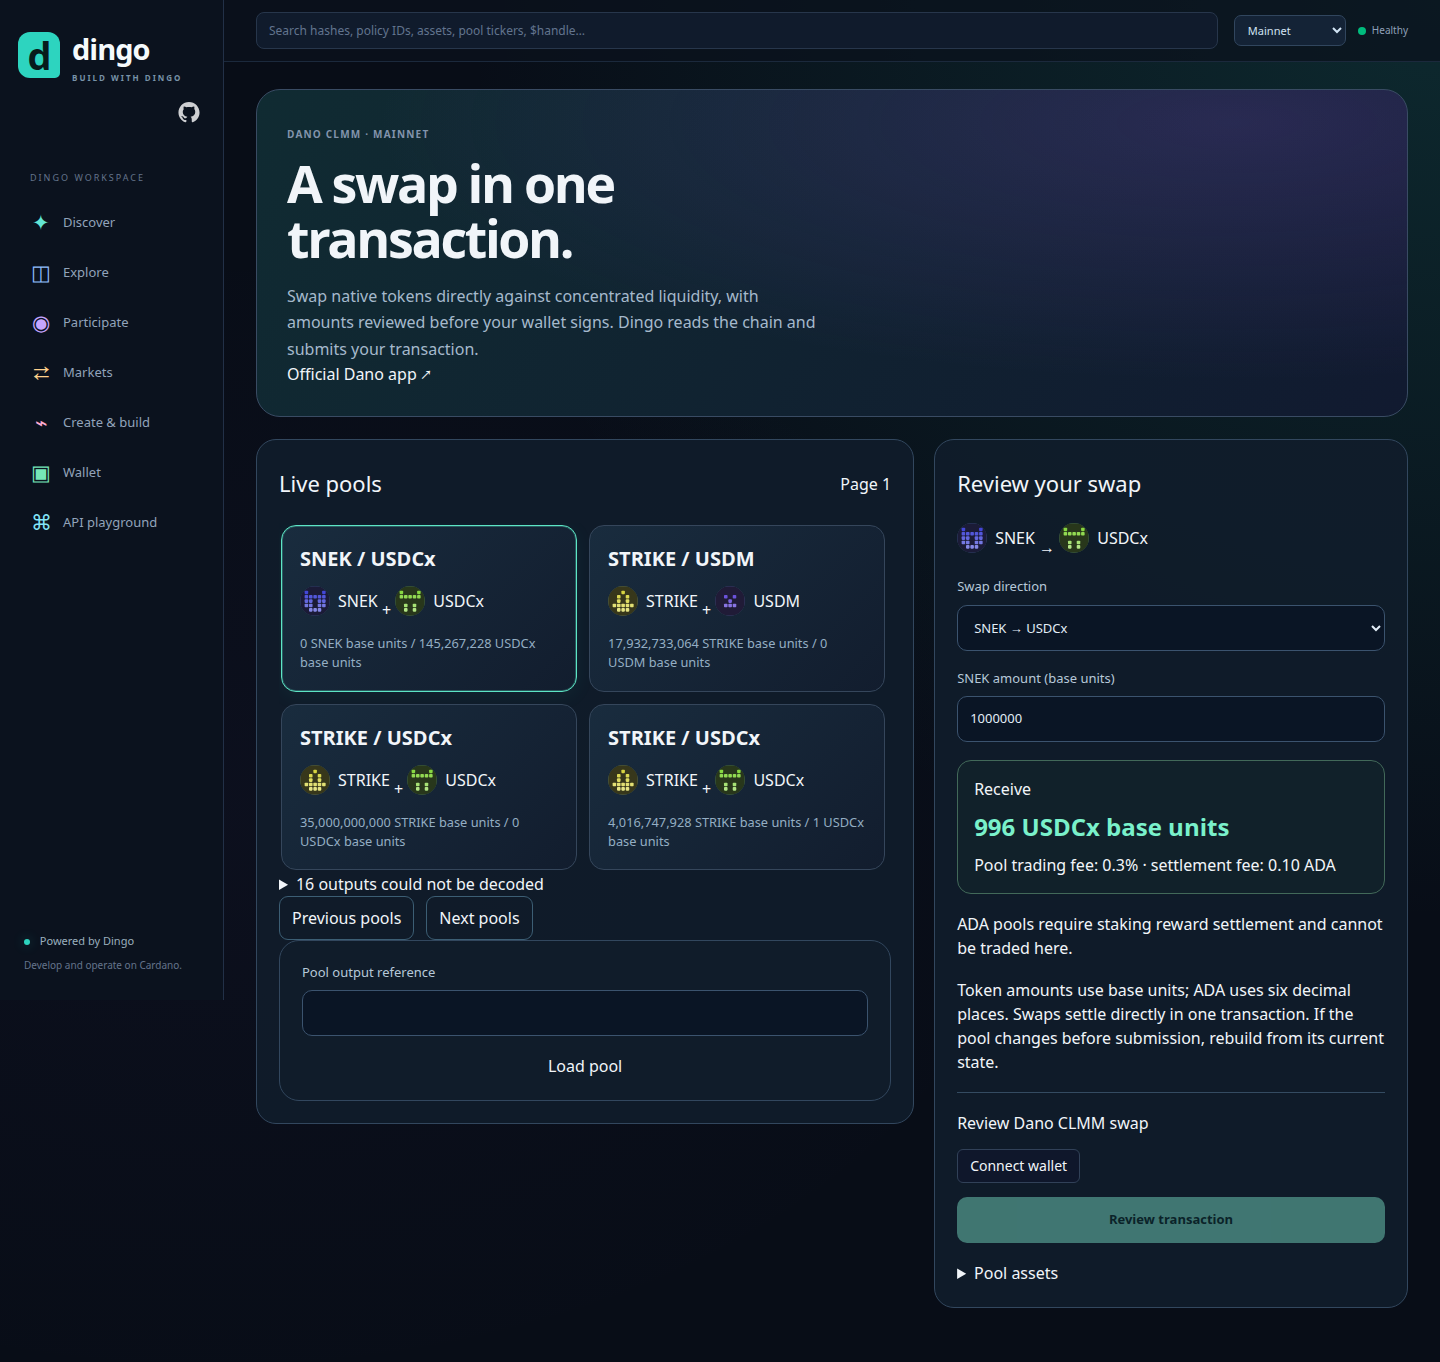
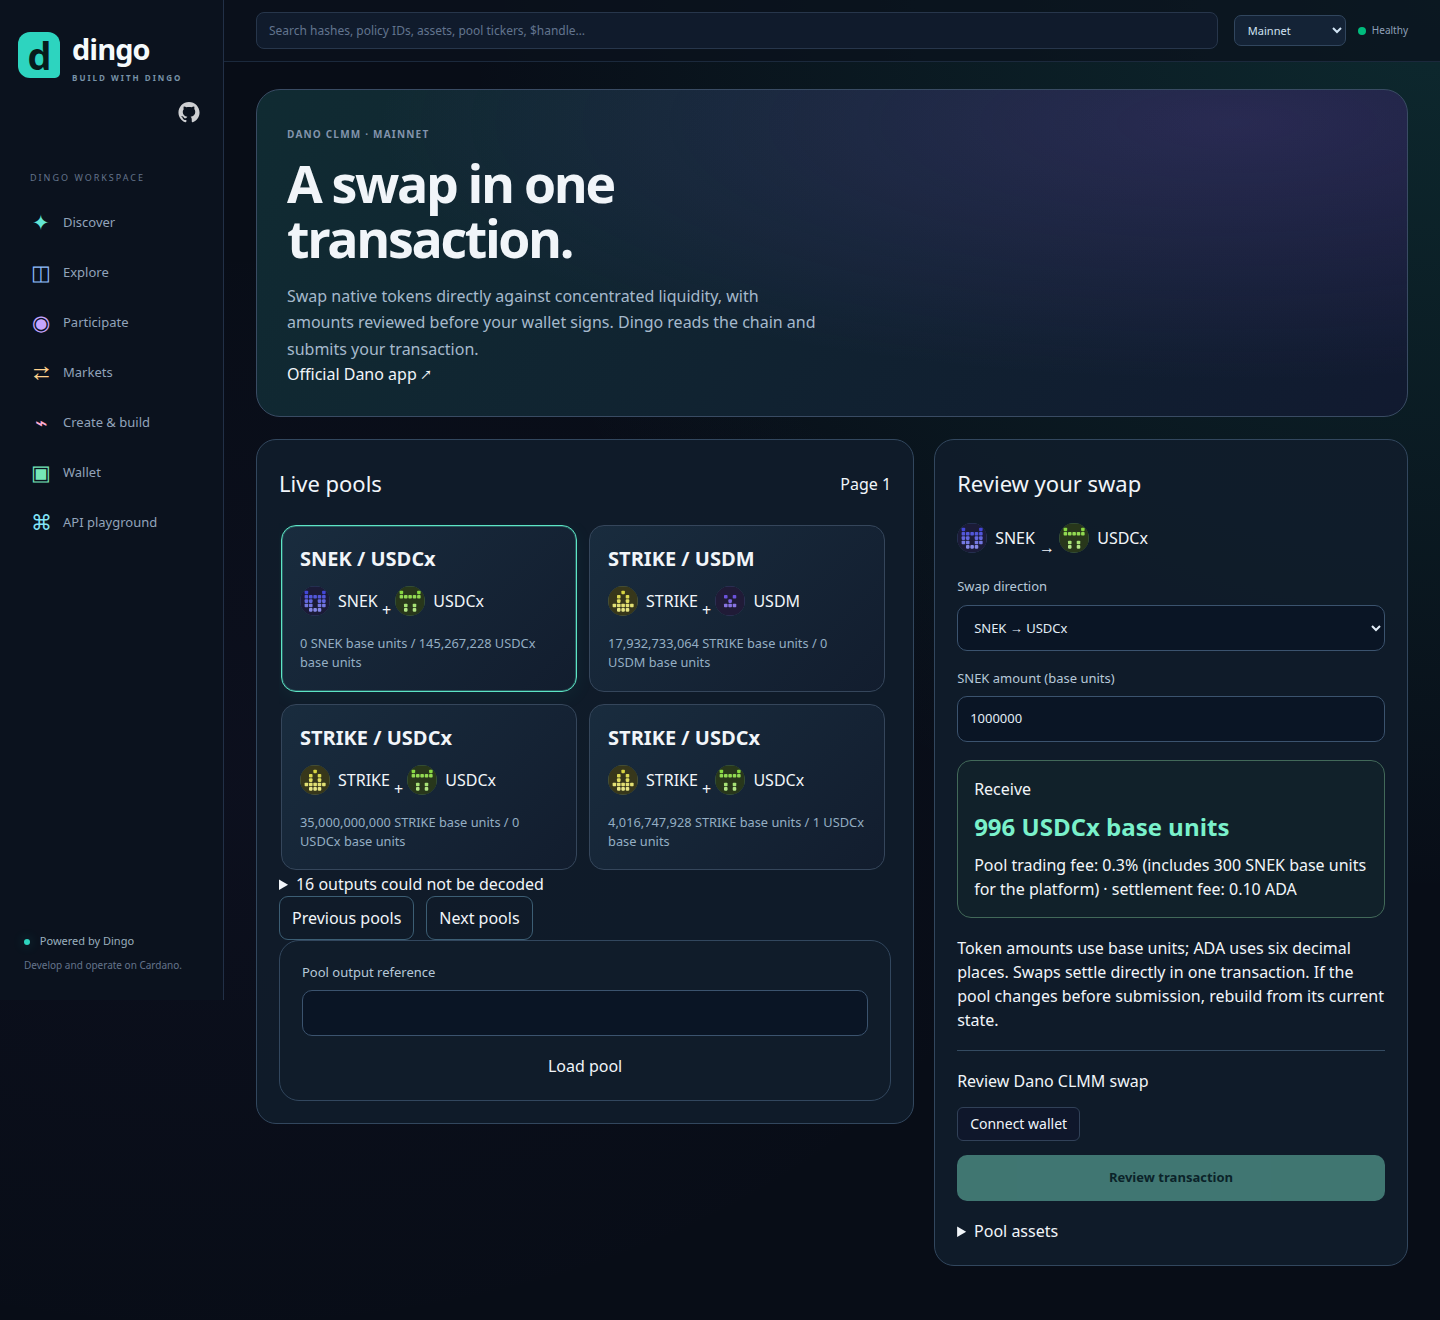
fix: clarify Dano fees and transaction validation

diff --git a/src/lib/dano/transactions.test.ts b/src/lib/dano/transactions.test.ts
@@ -152,17 +152,18 @@ it("verifies a real funding signature before handing the transaction to Dingo", 
  const post=vi.spyOn(f.ledger,"postTransactionToChain").mockResolvedValue(draft.tx.getId());
  await expect(submitDanoSwap(f.api,draft,()=>{})).resolves.toBe(String(draft.tx.getId()));expect(post).toHaveBeenCalledTimes(1);
 });
-it.each(["body","auxiliary","validity","account","reference"])("rejects %s changes during approval",async change=>{
+it.each(["body","auxiliary","validation flag","validity bounds","account","reference"])("rejects %s changes during approval",async change=>{
  const f=await setup(),draft=await prepareDanoSwap(f.api,f.args,()=>{}),post=vi.spyOn(f.ledger,"postTransactionToChain");
  vi.spyOn(f.blaze,"signTransaction").mockImplementation(async tx=>{
   if(change==="body")return new Core.Transaction(Core.TransactionBody.fromCore({...tx.body().toCore(),fee:tx.body().fee()+1n}),tx.witnessSet(),tx.auxiliaryData());
   if(change==="auxiliary")tx.setAuxiliaryData(Core.AuxiliaryData.fromCbor(Core.HexBlob("a1016161")));
-  if(change==="validity")return Core.Transaction.fromCbor(Core.TxCBOR(`84${tx.body().toCbor()}${tx.witnessSet().toCbor()}f4${tx.auxiliaryData()?.toCbor()??"f6"}`));
+  if(change==="validation flag")return Core.Transaction.fromCbor(Core.TxCBOR(`84${tx.body().toCbor()}${tx.witnessSet().toCbor()}f4${tx.auxiliaryData()?.toCbor()??"f6"}`));
+  if(change==="validity bounds") { const body=Core.TransactionBody.fromCore(tx.body().toCore()); body.setTtl(Core.Slot(draft.validUntil-1)); return new Core.Transaction(body,tx.witnessSet(),tx.auxiliaryData()); }
   if(change==="account")vi.spyOn(f.api,"getChangeAddress").mockResolvedValue(Core.addressFromCredential(1,Core.Credential.fromCore({type:Core.CredentialType.KeyHash,hash:Core.Hash28ByteBase16("44".repeat(28))})).toBytes());
   if(change==="reference")f.ledger.outputs.delete(point(f.reference.input()));
   return tx;
  });
- await expect(submitDanoSwap(f.api,draft,()=>{})).rejects.toThrow();expect(post).not.toHaveBeenCalled();
+ await expect(submitDanoSwap(f.api,draft,()=>{})).rejects.toThrow(change === "account" ? "Wallet account changed" : change === "reference" ? "pool or reference changed" : "Wallet changed the reviewed Dano CLMM transaction");expect(post).not.toHaveBeenCalled();
 });
 
 it("keeps the validity interval inside one epoch",async()=>{

diff --git a/src/components/markets/DanoMarket.test.tsx b/src/components/markets/DanoMarket.test.tsx
@@ -117,3 +117,8 @@ it("invalidates the reviewed draft when configuration changes",async()=>{
  await render();const before=button("Review Dano CLMM swap").dataset.draftKey;
  await act(async()=>{client.setQueryData(["dingo","markets","dano","configuration"],{...config,utxo:{input:()=>({transactionId:()=>"66".repeat(32),index:()=>0n,toCbor:()=>"newconfiguration"})}});});await flush();expect(button("Review Dano CLMM swap").dataset.draftKey).not.toBe(before);
 });
+
+it("shows the included platform share and reserves the staking note for ADA pools",async()=>{
+ await render();expect(host.textContent).toContain("300 AAA base units for the platform");expect(host.textContent).not.toContain("cannot be traded here");
+ const ada = {...pool,x:"lovelace"};await act(async()=>client.setQueryData(["dingo","markets","dano","pools",""],{pools:[ada],errors:[],nextToken:""}));await flush();expect(host.textContent).toContain("ADA pools require staking reward settlement");expect(button("Review Dano CLMM swap").disabled).toBe(true);
+});

diff --git a/src/components/markets/DanoMarket.tsx b/src/components/markets/DanoMarket.tsx
@@ -275,11 +275,11 @@ function DanoMainnet() {
                   <span>Receive</span>
                   <strong>{danoAmount(quote.received, received)}</strong>
                   <p>
-                    Pool trading fee: {Number(pool.fee) / 100}% · settlement fee: {danoAmount(quote.swapFee, "lovelace")}
+                    Pool trading fee: {Number(pool.fee) / 100}% (includes {danoAmount(quote.platform, offered)} for the platform) · settlement fee: {danoAmount(quote.swapFee, "lovelace")}
                   </p>
                 </div>
               )}
-              <p>ADA pools require staking reward settlement and cannot be traded here.</p>
+              {(pool.x === "lovelace" || pool.y === "lovelace") && <p>ADA pools require staking reward settlement and cannot be traded here.</p>}
               <p>
                 Token amounts use base units; ADA uses six decimal places. Swaps
                 settle directly in one transaction. If the pool changes before

diff --git a/src/lib/dano/fixtures.ts b/src/lib/dano/fixtures.ts
@@ -3,6 +3,6 @@ import pools from "./pools.fixture.json";
 import configs from "./config.fixture.json";
 export function danoFixture(row = pools.items[13]) {
   const bytes = (value: string) => Uint8Array.from(atob(value), c => c.charCodeAt(0));
-  return new Core.TransactionUnspentOutput(new Core.TransactionInput(Core.TransactionId(Core.toHex(bytes(row.txoRef.hash))), BigInt(row.txoRef.index ?? 0)), Core.TransactionOutput.fromCbor(Core.HexBlob.fromBytes(bytes(row.nativeBytes))));
+  return new Core.TransactionUnspentOutput(new Core.TransactionInput(Core.TransactionId(Core.toHex(bytes(row.txoRef.hash))), BigInt(row.txoRef.index)), Core.TransactionOutput.fromCbor(Core.HexBlob.fromBytes(bytes(row.nativeBytes))));
 }
 export const danoConfigFixture = () => danoFixture(configs.items[0]);

diff --git a/src/lib/dano/transactions.ts b/src/lib/dano/transactions.ts
@@ -141,7 +141,6 @@ export async function prepareDanoSwap(
     owner.address.toBytes()
   )
     throw new Error("Wallet account changed. Review a new swap.");
-  await assertTransactionNetwork(tx, assertCurrent, blaze.provider);
   return {
     tx,
     blaze,
